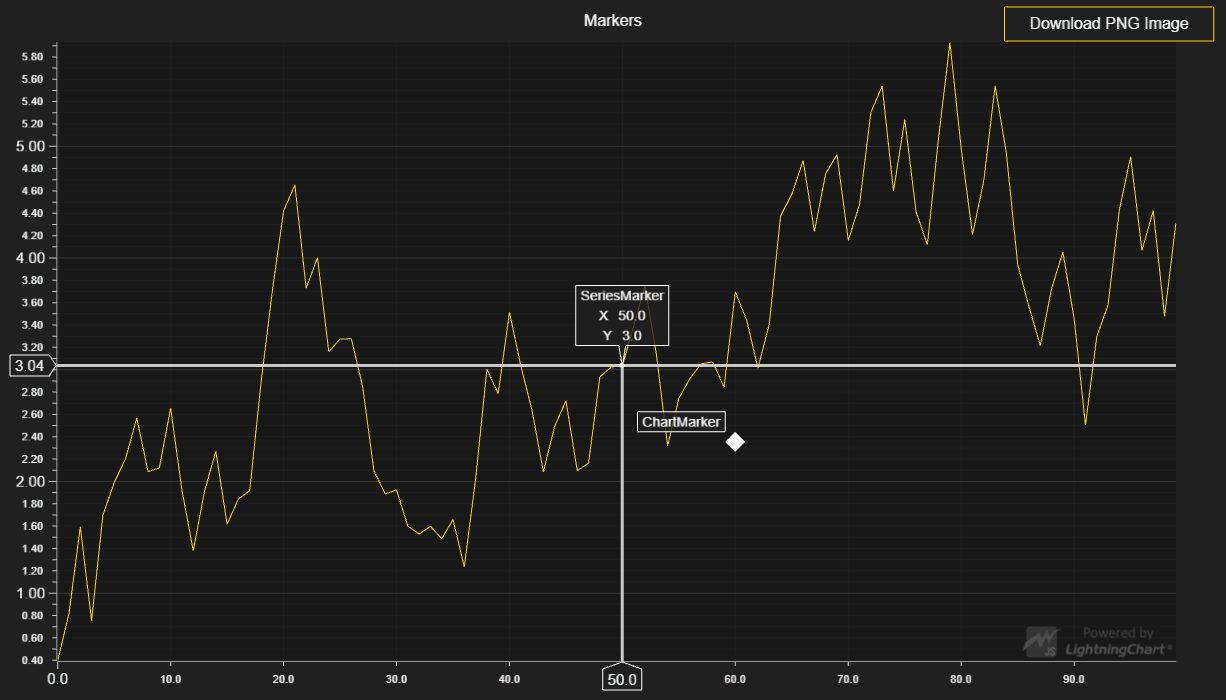
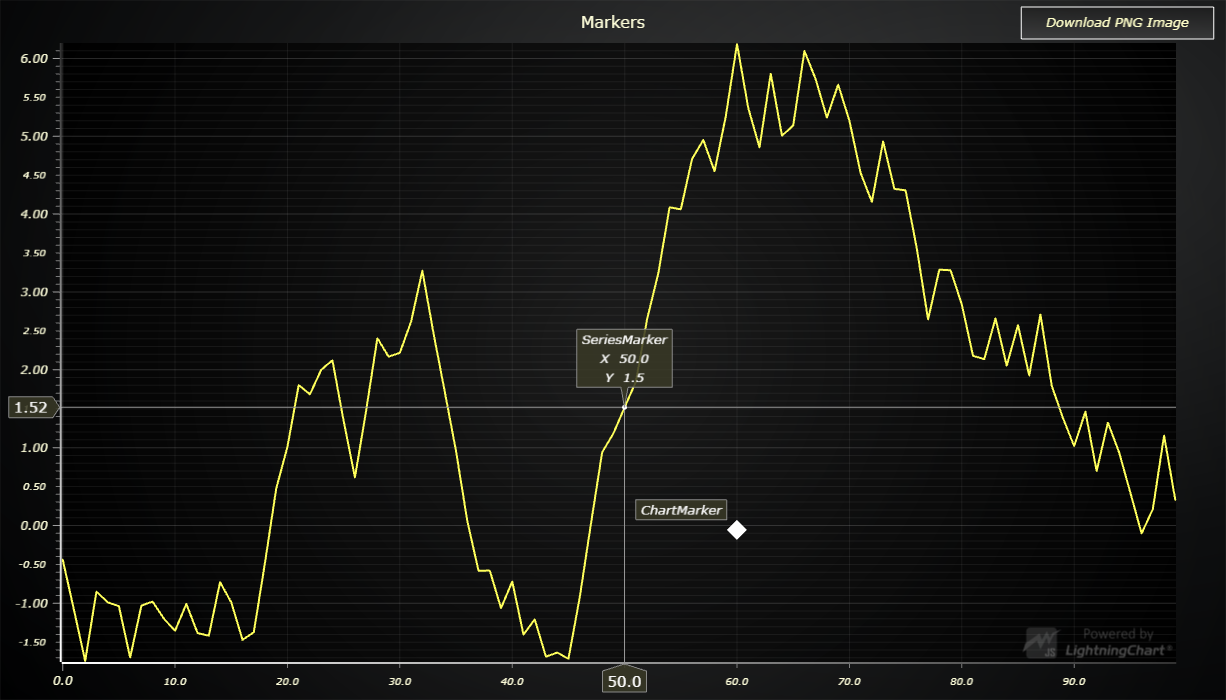
Update LCJS version

diff --git a/src/index.js b/src/index.js
@@ -8,13 +8,11 @@ const lcjs = require('@arction/lcjs')
 const {
     lightningChart,
     AutoCursorModes,
-    ColorRGBA,
     UIVisibilityModes,
     MarkerBuilders,
     UIBackgrounds,
     UIDirections,
     UIOrigins,
-    DataPatterns,
     UIElementBuilders,
     UIDraggingModes,
     Themes
@@ -29,7 +27,7 @@ const chartTitle = 'Markers'
 
 // Create a XY Chart.
 const chart = lightningChart().ChartXY({
-    // theme: Themes.dark 
+    // theme: Themes.darkGold 
 })
     .setTitle(chartTitle)
     // Disable AutoCursor just for focusing on Markers.
@@ -107,7 +105,7 @@ series.setCursorResultTableFormatter((tableBuilder, series, x, y) => tableBuilde
 // ... However, this will also apply to AutoCursor.
 
 // Add download button to save chart frame
-chart.addUIElement(UIElementBuilders.ButtonBox.setBackground(UIBackgrounds.Rectangle))
+chart.addUIElement(UIElementBuilders.ButtonBox)
     .setPosition({ x: 99, y: 99 })
     .setOrigin(UIOrigins.RightTop)
     .setText('Download PNG Image')

diff --git a/webpack.config.js b/webpack.config.js
@@ -69,7 +69,8 @@ module.exports = {
         }),
         new CopyWebpackPlugin({
             patterns: [
-                { from: './assets/**/*', to: './examples/assets', flatten: true, noErrorOnMissing: true }
+                { from: './assets/**/*', to: './examples/assets', flatten: true, noErrorOnMissing: true },
+                { from: './node_modules/@arction/lcjs/dist/resources', to: 'resources', noErrorOnMissing: true },
             ]
         })
     ]

diff --git a/README.md b/README.md
@@ -67,15 +67,15 @@ Direct developer email support can be purchased through a [Support Plan][4] or b
 © Arction Ltd 2009-2020. All rights reserved.
 
 
-[XY cartesian chart]: https://www.arction.com/lightningchart-js-api-documentation/v3.0.1/classes/chartxy.html
-[Auto cursor modes]: https://www.arction.com/lightningchart-js-api-documentation/v3.0.1/enums/autocursormodes.html
-[Line series]: https://www.arction.com/lightningchart-js-api-documentation/v3.0.1/classes/lineseries.html
-[Marker XY builder]: https://www.arction.com/lightningchart-js-api-documentation/v3.0.1/globals.html#markerbuilders
-[UI backgrounds]: https://www.arction.com/lightningchart-js-api-documentation/v3.0.1/globals.html#uibackgrounds
-[RGBA color factory]: https://www.arction.com/lightningchart-js-api-documentation/v3.0.1/globals.html#colorrgba
-[UIDirections]: https://www.arction.com/lightningchart-js-api-documentation/v3.0.1/enums/uidirections.html
-[Point marker]: https://www.arction.com/lightningchart-js-api-documentation/v3.0.1/interfaces/pointmarker.html
-[Result table]: https://www.arction.com/lightningchart-js-api-documentation/v3.0.1/interfaces/resulttable.html
-[ChartXY marker]: https://www.arction.com/lightningchart-js-api-documentation/v3.0.1/classes/chartmarkerxy.html
-[Visibility modes for Markers]: https://www.arction.com/lightningchart-js-api-documentation/v3.0.1/enums/uivisibilitymodes.html
+[XY cartesian chart]: https://www.arction.com/lightningchart-js-api-documentation/v3.1.0/classes/chartxy.html
+[Auto cursor modes]: https://www.arction.com/lightningchart-js-api-documentation/v3.1.0/enums/autocursormodes.html
+[Line series]: https://www.arction.com/lightningchart-js-api-documentation/v3.1.0/classes/lineseries.html
+[Marker XY builder]: https://www.arction.com/lightningchart-js-api-documentation/v3.1.0/globals.html#markerbuilders
+[UI backgrounds]: https://www.arction.com/lightningchart-js-api-documentation/v3.1.0/globals.html#uibackgrounds
+[RGBA color factory]: https://www.arction.com/lightningchart-js-api-documentation/v3.1.0/globals.html#colorrgba
+[UIDirections]: https://www.arction.com/lightningchart-js-api-documentation/v3.1.0/enums/uidirections.html
+[Point marker]: https://www.arction.com/lightningchart-js-api-documentation/v3.1.0/interfaces/pointmarker.html
+[Result table]: https://www.arction.com/lightningchart-js-api-documentation/v3.1.0/interfaces/resulttable.html
+[ChartXY marker]: https://www.arction.com/lightningchart-js-api-documentation/v3.1.0/classes/chartmarkerxy.html
+[Visibility modes for Markers]: https://www.arction.com/lightningchart-js-api-documentation/v3.1.0/enums/uivisibilitymodes.html
 
